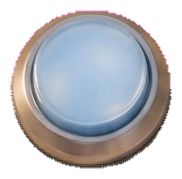
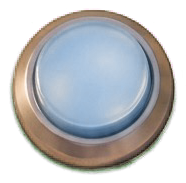
Fix wrong glow colors on the purple and teal level buttons
The creator caught it: the lit renders have a real soft glow bleeding
gradually into the green backdrop over ~20-25px, not a crisp edge. The
previous binary-mask-plus-narrow-erosion cutout misread most of that
gradual band as fully-opaque, baking in half-background color -- shown
raw as a wrong hue on the teal button, or flattened to a false
gray-blue band on purple by the earlier despill fix.

Fixed by deriving alpha directly from color distance to the background
(smoothstep, not a binary threshold), reproducing the render's actual
falloff, and scaling despill strength with that alpha so it can't
flatten a still-mostly-background pixel into a wrong color. Re-ran the
same fix across all 8 button images for consistency, even though only
purple and the teal one showed a visible defect.

Claude-Session: https://claude.ai/code/session_01QJhmBXxG8bP3KG6H3AZ1rh

diff --git a/mobile/README.md b/mobile/README.md
@@ -636,18 +636,38 @@ used before its own night variant arrived) would misrepresent that once
 real night art lands -- better an honest placeholder than a wrong
 "final" look.
 
-This cutout hit a new failure mode the others hadn't: unlike a flat
-render, these buttons have a shiny metal bezel that's genuinely
+This cutout hit two new failure modes the others hadn't. First: unlike a
+flat render, these buttons have a shiny metal bezel that's genuinely
 reflective in the source photo, so it picked up green spill from the
 chroma-key background baked into fully-opaque interior pixels (not just
 a soft edge blend at the alpha boundary, like every earlier cutout's
-issue). Edge decontamination alone doesn't touch that -- it only
-touches partial-alpha pixels. Fixed with a proper despill pass: any
-pixel where green measurably exceeds the red/blue midpoint gets pulled
-down to that midpoint. Applied to blue, purple, and pink (safe, since
-none of those are ever meant to look green); skipped for the teal
-button, since its whole point is being green-dominant and despilling it
-would have eaten its real color along with the spill.
+issue). Fixed with a despill pass: any pixel where green measurably
+exceeds the red/blue midpoint gets pulled down to that midpoint,
+applied to blue, purple, and pink (safe, since none of those are ever
+meant to look green) and skipped for the teal button, since its whole
+point is being green-dominant.
+
+Second, worse one -- caught by the creator after the first push ("ya un
+probleme avec le violet et le vert en haut"): the *lit* renders have a
+real soft glow bleeding gradually into the green backdrop over ~20-25px
+above each button, not a crisp cutout edge (confirmed by sampling a
+vertical profile through the purple button: distance from pure
+background climbed smoothly over about 25 rows before the solid bezel
+started). The original binary-threshold-plus-narrow-erosion approach
+(built for crisp-edged sprites, reused as-is here) misread most of that
+gradual band as fully-opaque "core" and baked in the half-background
+color -- which then either showed through as a wrong hue outright, or,
+on top of that, got its green forced flat by the *first* fix's
+unconditional despill, turning a soft green glow into a false gray-blue
+band. Fixed by computing alpha directly from color distance to the
+background (a smoothstep between two distance thresholds) instead of a
+binary mask -- this reproduces the render's actual gradual falloff
+rather than fighting it -- and by scaling despill strength with that
+same alpha so it can no longer flatten a mostly-background pixel into a
+wrong color. Worth remembering for any future glowing/bloomed cutout in
+this file: a soft light effect painted into a chroma-key composite
+needs alpha derived from the real color gradient, not a hard silhouette
+with a thin feather bolted on.
 
 The creator is planning to send more decor variety than just one of each
 piece (several palm trees, several flower clusters, ...), specifically so
